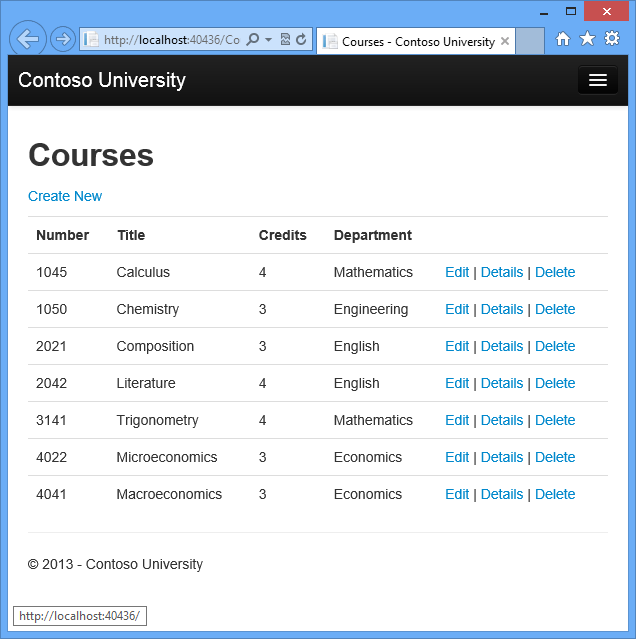
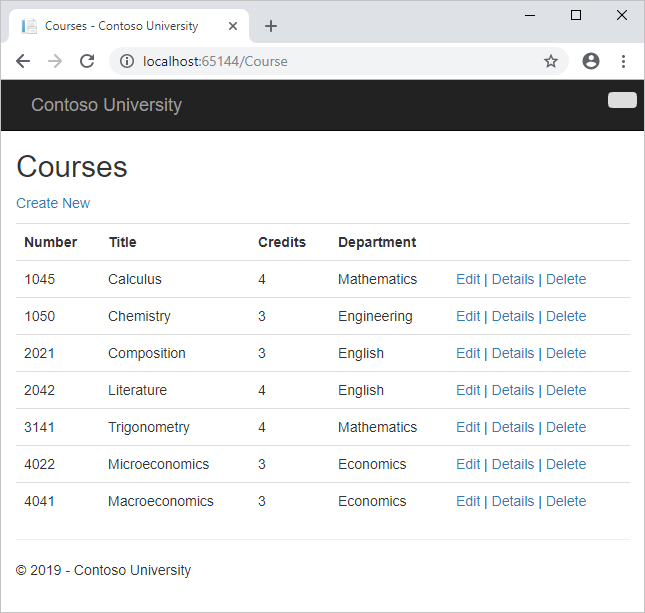
1385000 reading related data (#10442)
* 1385000, initial updates for User Story and .NET Template.

* 1385000, finished updates for User Story and .NET Template.

* 1385000, fixed a minor typo.

diff --git a/aspnet/mvc/overview/getting-started/getting-started-with-ef-using-mvc/reading-related-data-with-the-entity-framework-in-an-asp-net-mvc-application.md b/aspnet/mvc/overview/getting-started/getting-started-with-ef-using-mvc/reading-related-data-with-the-entity-framework-in-an-asp-net-mvc-application.md
@@ -1,22 +1,17 @@
 ---
 uid: mvc/overview/getting-started/getting-started-with-ef-using-mvc/reading-related-data-with-the-entity-framework-in-an-asp-net-mvc-application
-title: "Reading Related Data with the Entity Framework in an ASP.NET MVC Application | Microsoft Docs"
+title: "Tutorial: Read related data with EF in an ASP.NET MVC app"
+description: "In this tutorial you'll read and display related data — that is, data that the Entity Framework loads into navigation properties."
 author: tdykstra
-description: "/ajax/tutorials/using-ajax-control-toolkit-controls-and-control-extenders-vb"
 ms.author: riande
-ms.date: 11/07/2014
+ms.date: 01/17/2019
+ms.topic: tutorial
 ms.assetid: 18cdd896-8ed9-4547-b143-114711e3eafb
 msc.legacyurl: /mvc/overview/getting-started/getting-started-with-ef-using-mvc/reading-related-data-with-the-entity-framework-in-an-asp-net-mvc-application
 msc.type: authoredcontent
 ---
-Reading Related Data with the Entity Framework in an ASP.NET MVC Application
-====================
-by [Tom Dykstra](https://github.com/tdykstra)
 
-[Download Completed Project](http://code.msdn.microsoft.com/ASPNET-MVC-Application-b01a9fe8)
-
-> The Contoso University sample web application demonstrates how to create ASP.NET MVC 5 applications using the Entity Framework 6 Code First and Visual Studio. For information about the tutorial series, see [the first tutorial in the series](creating-an-entity-framework-data-model-for-an-asp-net-mvc-application.md).
-
+# Tutorial: Read related data with EF in an ASP.NET MVC app
 
 In the previous tutorial you completed the School data model. In this tutorial you'll read and display related data — that is, data that the Entity Framework loads into navigation properties.
 
@@ -26,7 +21,18 @@ The following illustrations show the pages that you'll work with.
 
 ![Instructors_index_page_with_instructor_and_course_selected](reading-related-data-with-the-entity-framework-in-an-asp-net-mvc-application/_static/image2.png)
 
-## Lazy, Eager, and Explicit Loading of Related Data
+In this tutorial, you:
+
+> [!div class="checklist"]
+> * Learn how to load related data
+> * Create a Courses page
+> * Create an Instructors page
+
+## Prerequisites
+
+* [Create a more complex data model](creating-a-more-complex-data-model-for-an-asp-net-mvc-application.md)
+
+## Learn how to load related data
 
 There are several ways that the Entity Framework can load related data into the navigation properties of an entity:
 
@@ -67,13 +73,19 @@ Here are some other [ways to disable lazy loading](https://msdn.microsoft.com/da
 
     [!code-csharp[Main](reading-related-data-with-the-entity-framework-in-an-asp-net-mvc-application/samples/sample1.cs)]
 
-## Create a Courses Page That Displays Department Name
+## Create a Courses page
 
 The `Course` entity includes a navigation property that contains the `Department` entity of the department that the course is assigned to. To display the name of the assigned department in a list of courses, you need to get the `Name` property from the `Department` entity that is in the `Course.Department` navigation property.
 
-Create a controller named `CourseController` (not CoursesController) for the `Course` entity type, using the same options for the **MVC 5 Controller with views, using Entity Framework** scaffolder that you did earlier for the `Student` controller, as shown in the following illustration:
+Create a controller named `CourseController` (not CoursesController) for the `Course` entity type, using the same options for the **MVC 5 Controller with views, using Entity Framework** scaffolder that you did earlier for the `Student` controller:
 
-![Add_Controller_dialog_box_for_Course_controller](reading-related-data-with-the-entity-framework-in-an-asp-net-mvc-application/_static/image3.png)
+| Setting | Value |
+| ------- | ----- |
+| Model class | Select **Course (ContosoUniversity.Models)**. |
+| Data context class | Select **SchoolContext (ContosoUniversity.DAL)**. |
+| Controller name | Enter *CourseController*. Again, not *CoursesController* with an *s*. When you selected **Course (ContosoUniversity.Models)**, the **Controller name** value was automatically populated. You have to change the value. |
+
+Leave the other default values and add the controller.
 
 Open *Controllers\CourseController.cs* and look at the `Index` method:
 
@@ -97,15 +109,9 @@ Notice that for the Department column, the scaffolded code displays the `Name` p
 
 Run the page (select the **Courses** tab on the Contoso University home page) to see the list with department names.
 
-![Courses_index_page_with_department_names](reading-related-data-with-the-entity-framework-in-an-asp-net-mvc-application/_static/image4.png)
+## Create an Instructors page
 
-## Create an Instructors Page That Shows Courses and Enrollments
-
-In this section you'll create a controller and view for the `Instructor` entity in order to display the Instructors page:
-
-![Instructors_index_page_with_instructor_and_course_selected](reading-related-data-with-the-entity-framework-in-an-asp-net-mvc-application/_static/image5.png)
-
-This page reads and displays related data in the following ways:
+In this section you'll create a controller and view for the `Instructor` entity in order to display the Instructors page. This page reads and displays related data in the following ways:
 
 - The list of instructors displays related data from the `OfficeAssignment` entity. The `Instructor` and `OfficeAssignment` entities are in a one-to-zero-or-one relationship. You'll use eager loading for the `OfficeAssignment` entities. As explained earlier, eager loading is typically more efficient when you need the related data for all retrieved rows of the primary table. In this case, you want to display office assignments for all displayed instructors.
 - When the user selects an instructor, related `Course` entities are displayed. The `Instructor` and `Course` entities are in a many-to-many relationship. You'll use eager loading for the `Course` entities and their related `Department` entities. In this case, lazy loading might be more efficient because you need courses only for the selected instructor. However, this example shows how to use eager loading for navigation properties within entities that are themselves in navigation properties.
@@ -121,9 +127,15 @@ In the *ViewModels* folder, create *InstructorIndexData.cs* and replace the exis
 
 ### Create the Instructor Controller and Views
 
-Create an `InstructorController` (not InstructorsController) controller with EF read/write actions as shown in the following illustration:
+Create an `InstructorController` (not InstructorsController) controller with EF read/write action:
 
-![Add_Controller_dialog_box_for_Instructor_controller](reading-related-data-with-the-entity-framework-in-an-asp-net-mvc-application/_static/image6.png)
+| Setting | Value |
+| ------- | ----- |
+| Model class | Select **Instructor (ContosoUniversity.Models)**. |
+| Data context class | Select **SchoolContext (ContosoUniversity.DAL)**. |
+| Controller name | Enter *InstructorController*. Again, not *InstructorsController* with an *s*. When you selected **Course (ContosoUniversity.Models)**, the **Controller name** value was automatically populated. You have to change the value. |
+
+Leave the other default values and add the controller.
 
 Open *Controllers\InstructorController.cs* and add a `using` statement for the `ViewModels` namespace:
 
@@ -187,8 +199,6 @@ You've made the following changes to the existing code:
 
 Run the application and select the **Instructors** tab. The page displays the `Location` property of related `OfficeAssignment` entities and an empty table cell when there's no related `OfficeAssignment` entity.
 
-![Instructors_index_page_with_nothing_selected](reading-related-data-with-the-entity-framework-in-an-asp-net-mvc-application/_static/image7.png)
-
 In the *Views\Instructor\Index.cshtml* file, after the closing `table` element (at the end of the file), add the following code. This code displays a list of courses related to an instructor when an instructor is selected.
 
 [!code-cshtml[Main](reading-related-data-with-the-entity-framework-in-an-asp-net-mvc-application/samples/sample18.cshtml)]
@@ -197,8 +207,6 @@ This code reads the `Courses` property of the view model to display a list of co
 
 Run the page and select an instructor. Now you see a grid that displays courses assigned to the selected instructor, and for each course you see the name of the assigned department.
 
-![Instructors_index_page_with_instructor_selected](reading-related-data-with-the-entity-framework-in-an-asp-net-mvc-application/_static/image8.png)
-
 After the code block you just added, add the following code. This displays a list of the students who are enrolled in a course when that course is selected.
 
 [!code-cshtml[Main](reading-related-data-with-the-entity-framework-in-an-asp-net-mvc-application/samples/sample19.cshtml)]
@@ -206,8 +214,6 @@ After the code block you just added, add the following code. This displays a lis
 This code reads the `Enrollments` property of the view model in order to display a list of students enrolled in the course.
 
 Run the page and select an instructor. Then select a course to see the list of enrolled students and their grades.
-
-![Instructors_index_page_with_instructor_and_course_selected](reading-related-data-with-the-entity-framework-in-an-asp-net-mvc-application/_static/image9.png)
 
 ### Adding Explicit Loading
 
@@ -233,14 +239,20 @@ Notice that you use the `Collection` method to load a collection property, but f
 
 Run the Instructor Index page now and you'll see no difference in what's displayed on the page, although you've changed how the data is retrieved.
 
-## Summary
-
-You've now used all three ways (lazy, eager, and explicit) to load related data into navigation properties. In the next tutorial you'll learn how to update related data.
-
-Please leave feedback on how you liked this tutorial and what we could improve.
+## Additional resources
 
 Links to other Entity Framework resources can be found in the [ASP.NET Data Access - Recommended Resources](../../../../whitepapers/aspnet-data-access-content-map.md).
 
-> [!div class="step-by-step"]
-> [Previous](creating-a-more-complex-data-model-for-an-asp-net-mvc-application.md)
-> [Next](updating-related-data-with-the-entity-framework-in-an-asp-net-mvc-application.md)
+## Next steps
+
+In this tutorial, you:
+
+> [!div class="checklist"]
+> * Learned how to load related data
+> * Created a Courses page
+> * Created an Instructors page
+
+Advance to the next article to learn how to update related data.
+
+> [!div class="nextstepaction"]
+> [Update related data](updating-related-data-with-the-entity-framework-in-an-asp-net-mvc-application.md)
